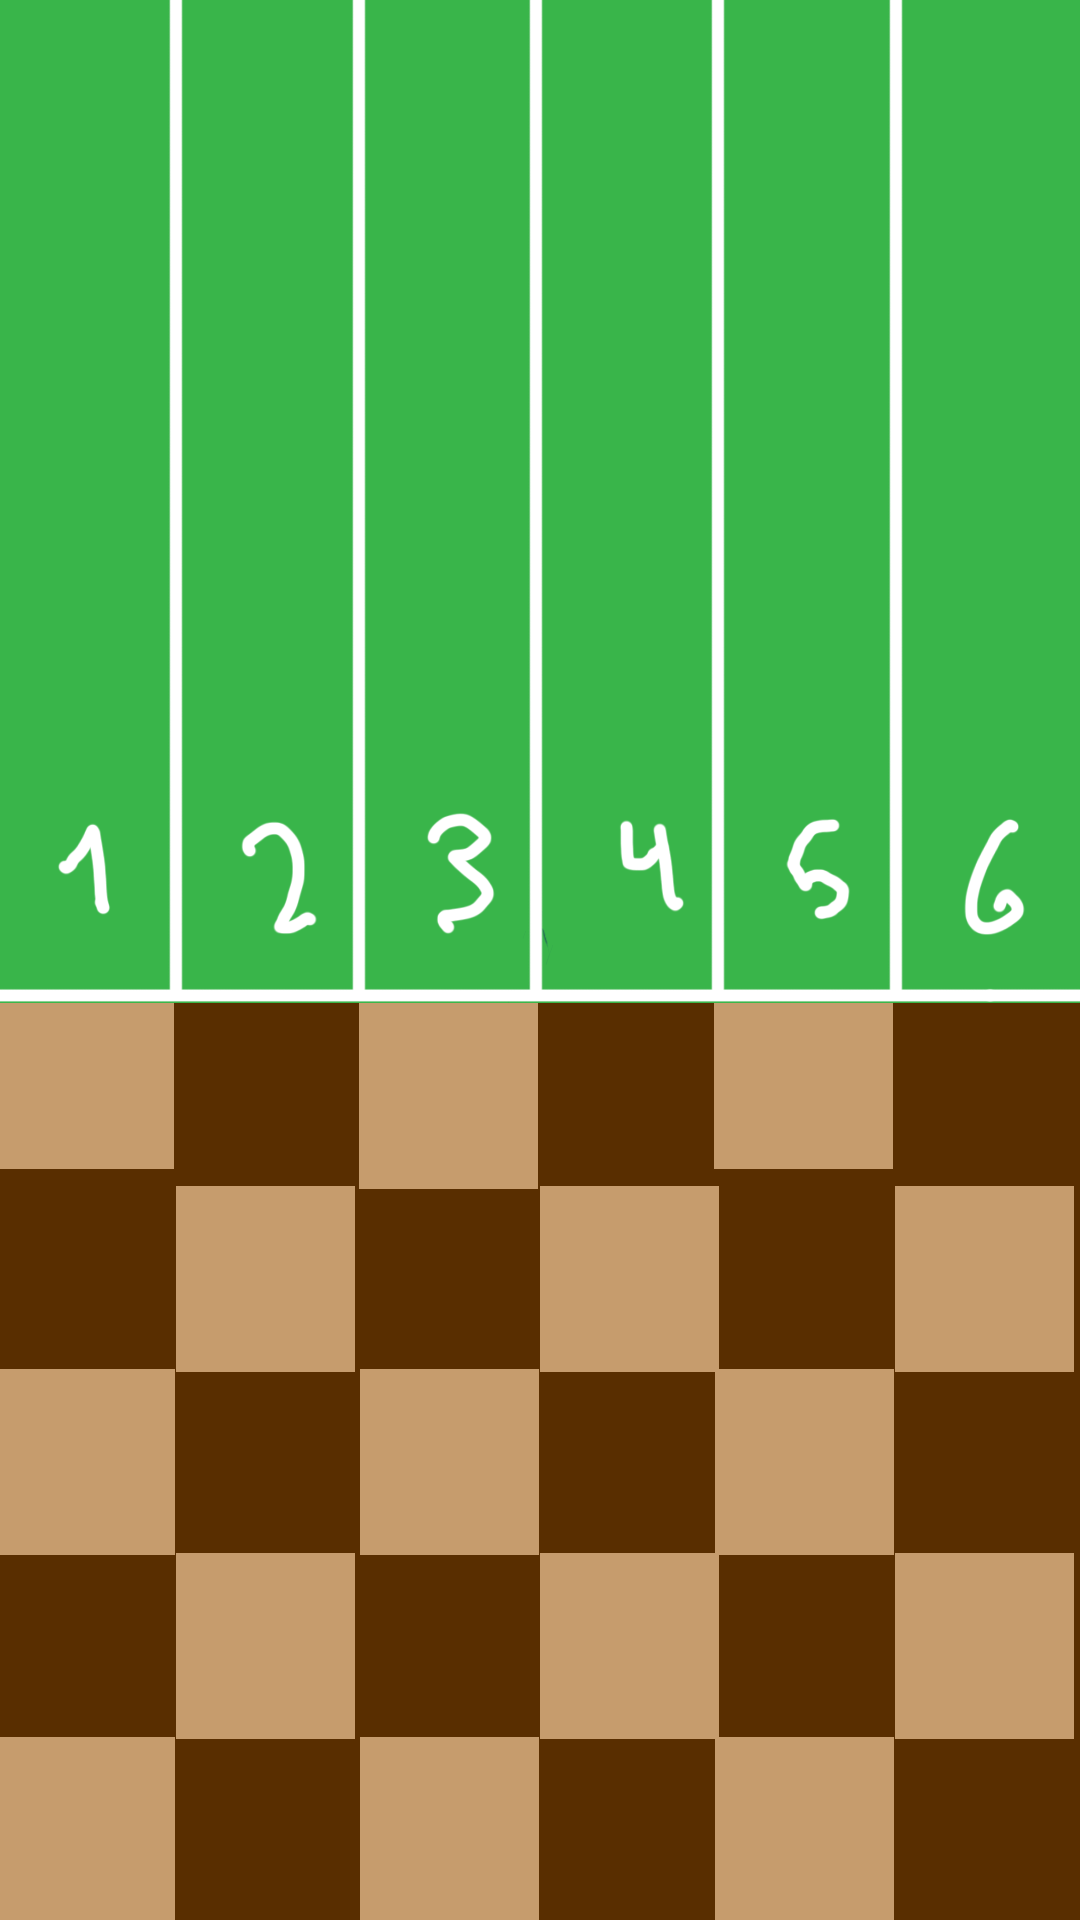
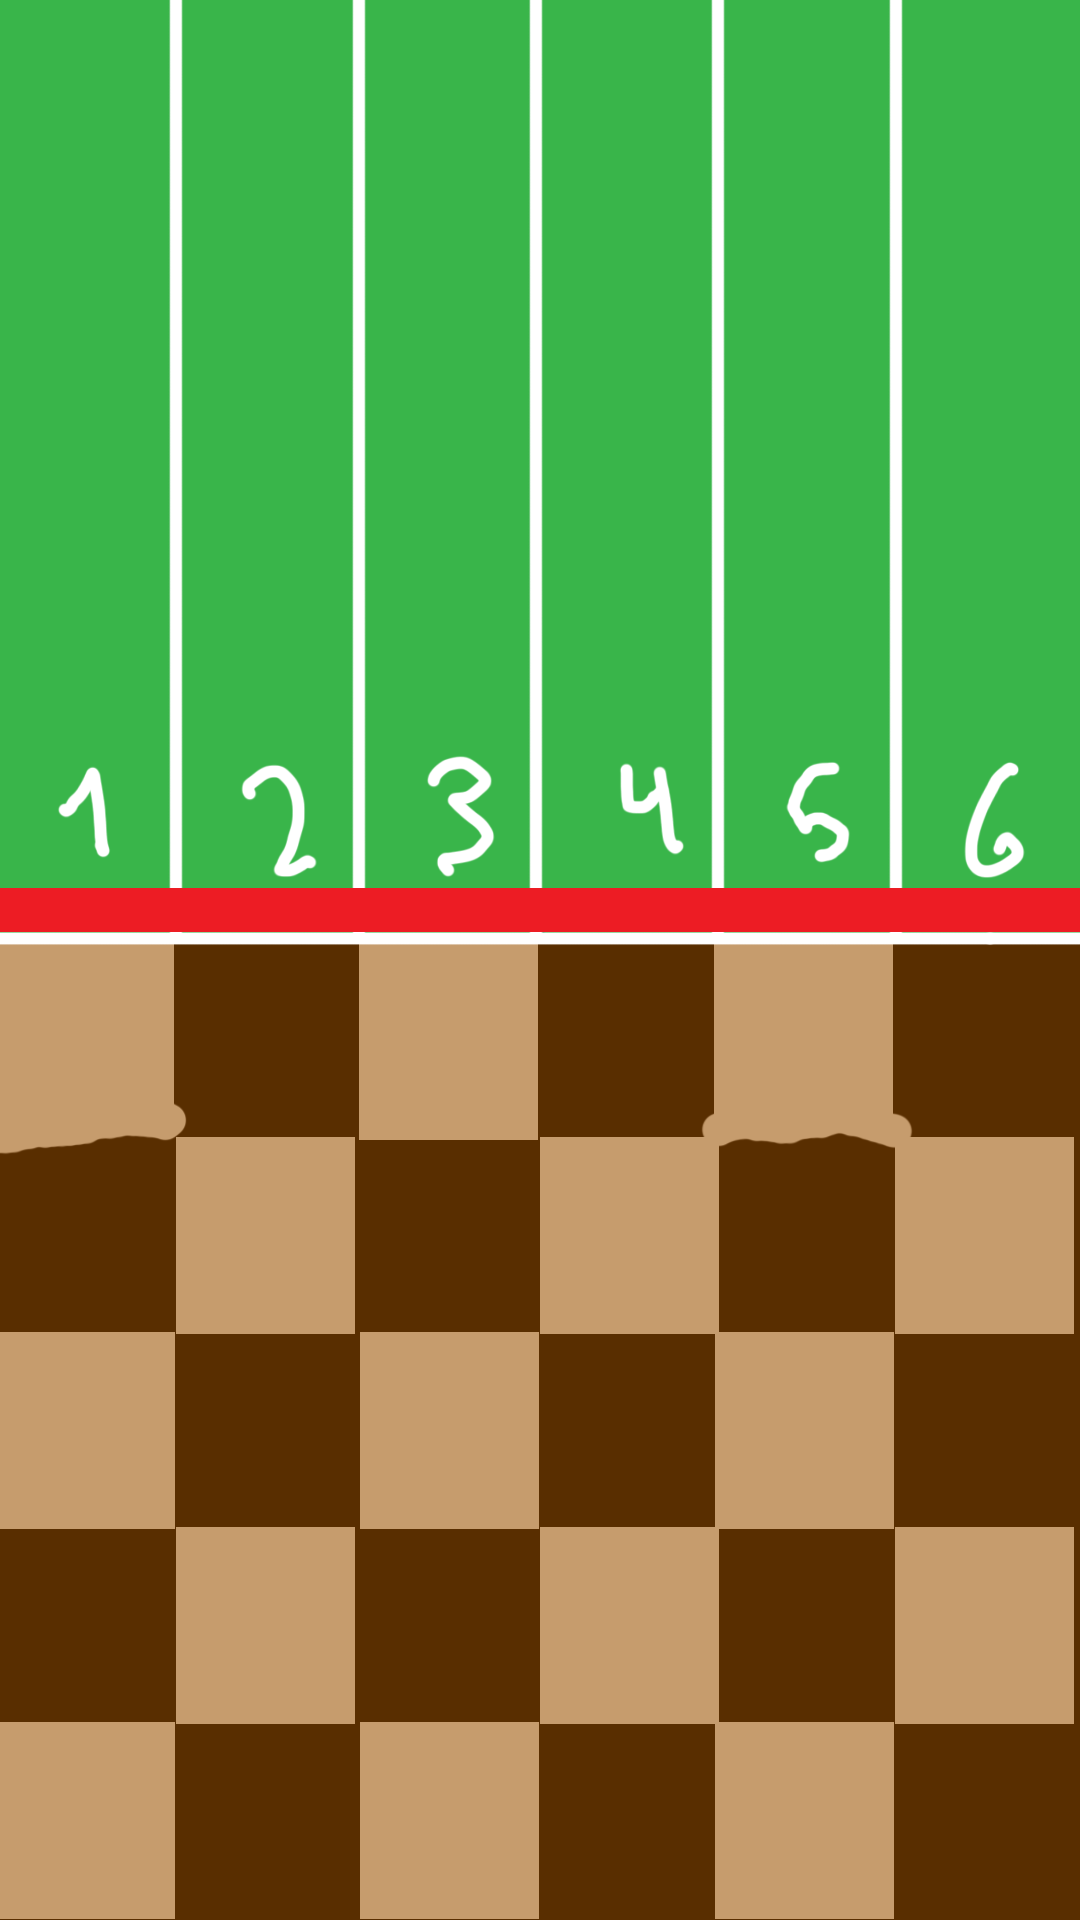
Combat works!

diff --git a/core/src/me/shreyasr/elemental/field/Entities/Monster.java b/core/src/me/shreyasr/elemental/field/Entities/Monster.java
@@ -35,28 +35,27 @@ public class Monster implements Entity {
     }
 
     public enum Type {
-        FIRE_3(MonsterSprite.FIRE_3, Element.FIRE),
-        FIRE_4(MonsterSprite.FIRE_4, Element.FIRE),
-        FIRE_5(MonsterSprite.FIRE_5, Element.FIRE),
+        FIRE_3(MonsterSprite.FIRE_3, Element.FIRE, 1, 100),
+        FIRE_4(MonsterSprite.FIRE_4, Element.FIRE, 2, 200),
+        FIRE_5(MonsterSprite.FIRE_5, Element.FIRE, 4, 400),
 
-        COLD_3(MonsterSprite.COLD_3, Element.COLD),
-        COLD_4(MonsterSprite.COLD_4, Element.COLD),
-        COLD_5(MonsterSprite.COLD_5, Element.COLD),
+        COLD_3(MonsterSprite.COLD_3, Element.COLD, 1, 100),
+        COLD_4(MonsterSprite.COLD_4, Element.COLD, 2, 200),
+        COLD_5(MonsterSprite.COLD_5, Element.COLD, 4, 400),
 
-        WATER_3(MonsterSprite.WATER_3, Element.WATER),
-        WATER_4(MonsterSprite.WATER_4, Element.WATER),
-        WATER_5(MonsterSprite.WATER_5, Element.WATER),
+        WATER_3(MonsterSprite.WATER_3, Element.WATER, 1, 100),
+        WATER_4(MonsterSprite.WATER_4, Element.WATER, 2, 200),
+        WATER_5(MonsterSprite.WATER_5, Element.WATER, 4, 400),
 
-        LIGHTNING_3(MonsterSprite.LIGHTNING_3, Element.LIGHTNING),
-        LIGHTNING_4(MonsterSprite.LIGHTNING_4, Element.LIGHTNING),
-        LIGHTNING_5(MonsterSprite.LIGHTNING_5, Element.LIGHTNING),
+        LIGHTNING_3(MonsterSprite.LIGHTNING_3, Element.LIGHTNING, 1, 100),
+        LIGHTNING_4(MonsterSprite.LIGHTNING_4, Element.LIGHTNING, 2, 200),
+        LIGHTNING_5(MonsterSprite.LIGHTNING_5, Element.LIGHTNING, 4, 400),
 
-        EARTH_3(MonsterSprite.EARTH_3, Element.EARTH),
-        EARTH_4(MonsterSprite.EARTH_4, Element.EARTH),
-        EARTH_5(MonsterSprite.EARTH_5, Element.EARTH);
+        EARTH_3(MonsterSprite.EARTH_3, Element.EARTH, 1, 10),
+        EARTH_4(MonsterSprite.EARTH_4, Element.EARTH, 2, 20),
+        EARTH_5(MonsterSprite.EARTH_5, Element.EARTH, 4, 40);
 
         public static Type get(Element e, int size) {
-            Gdx.app.error("size", size+"");
             switch(size) {
                 case 3:
                     switch(e) {
@@ -88,10 +87,14 @@ public class Monster implements Entity {
 
         public final MonsterSprite sprite;
         public final Element element;
+        public final double health;
+        public final double attack;
 
-        Type(MonsterSprite sprite, Element element) {
+        Type(MonsterSprite sprite, Element element, double attack, double health) {
             this.sprite = sprite;
             this.element = element;
+            this.attack = attack;
+            this.health = health;
         }
     }
 
@@ -101,13 +104,13 @@ public class Monster implements Entity {
     public Type type;
     public Orientation orientation;
 
-    public int xOff = (int) (Math.random()* Game.LANE_WIDTH);
+    public int xOff = (int) ((Math.random()-0.5)* Game.LANE_WIDTH)/4;
     public double y = -1;
     public long endTime = 0;
     public int lane;
     public final double speed;
-    public double health;
-    public double attackStrength;
+    public double health = 50;
+    public double attackStrength = 1;
     public ArrayList<Effect> effects = new ArrayList<Effect>();
 
     public Monster(Monster.Type type, Orientation orientation, double speed, int lane) {
@@ -116,6 +119,8 @@ public class Monster implements Entity {
         this.speed = speed;
         this.lane = lane;
         this.sprite = type.sprite;
+        health = type.health;
+        attackStrength = type.attack;
     }
 
     public enum Status { PASS, SEND, DIE }
@@ -129,17 +134,22 @@ public class Monster implements Entity {
                 e.remove();
             }
         }
-        double newY = y + speedMod()*Game.LANE_LENGTH*0.001*0.005;
+        double newY = y + speedMod()*Game.LANE_LENGTH*0.001*0.004;
         for(Monster m : monsters) {
-            if(m.y > y && m.y < newY) {
-                newY = m.y-0.01;
-                this.attack(m);
-                break;
-            }
-            else if(m.y < y && m.y > newY) {
-                newY = m.y + 0.01;
-                this.attack(m);
-                break;
+            if (m == this)
+                continue;
+            if (orientation == Orientation.GOOD) {
+                if (m.y - y < 0.1 && m.y - y > 0) {
+                    newY = y;
+                    if (m.orientation == Orientation.EVIL)
+                        this.attack(m);
+                }
+            } else {
+                if (m.y - y > -0.1 && m.y - y < 0) {
+                    newY = y;
+                    if (m.orientation == Orientation.GOOD)
+                        this.attack(m);
+                }
             }
         }
         if(newY<-1 && orientation == Orientation.EVIL) {
@@ -151,22 +161,19 @@ public class Monster implements Entity {
             endTime = TimeUtils.millis();
             return Status.SEND;
         }
+        if (health < 0)
+            return Status.DIE;
         return Status.PASS;
     }
     @Override
     public void takeDamage(Attack a){
+        Gdx.app.error("Damage", a.baseDamage + "");
         if(a.type.counter(type.element))
             health-=a.baseDamage * 2 * defMod();
         else
             health-=a.baseDamage;
-        if(health < 0)
-            die();
     }
 
-    @Override
-    public void die() {
-
-    }
     public double speedMod(){
         double base = speed;
         for(Effect e : effects)
@@ -186,10 +193,7 @@ public class Monster implements Entity {
         return base;
     }
     public void attack(Entity e){
-        e.takeDamage(new Attack(
-                type.element,
-                attackMod()
-        ));
+        e.takeDamage(new Attack(type.element, attackMod()));
     }
     public void addEffect(Effect e){
         effects.add(e);

diff --git a/core/src/me/shreyasr/elemental/field/Lane.java b/core/src/me/shreyasr/elemental/field/Lane.java
@@ -1,18 +1,17 @@
 package me.shreyasr.elemental.field;
 
-import com.badlogic.gdx.Gdx;
 import com.badlogic.gdx.graphics.g2d.SpriteBatch;
 
-import java.util.ArrayList;
 import java.util.Iterator;
 import java.util.List;
+import java.util.concurrent.CopyOnWriteArrayList;
 
 import me.shreyasr.elemental.Game;
 import me.shreyasr.elemental.field.entities.Monster;
 
 public class Lane {
 
-    public List<Monster> monsters = new ArrayList<Monster>();
+    public List<Monster> monsters = new CopyOnWriteArrayList<>();
     public final int laneNum;
 
     public Lane(int laneNum) {
@@ -40,7 +39,7 @@ public class Lane {
     public void render(SpriteBatch batch, int lanePos) {
         for (Monster m : monsters) {
             batch.draw(m.sprite.sprite,//m.sprite.animation.getKeyFrame(Game.DELTA),
-                    lanePos+m.xOff-Game.LANE_WIDTH, (float) ((m.y+1)*Game.LANE_LENGTH+Game.LANE_START));
+                    lanePos+m.xOff-Game.LANE_WIDTH/2, (float) ((m.y+1)*Game.LANE_LENGTH+Game.LANE_START));
         }
     }
 }

diff --git a/core/src/me/shreyasr/elemental/field/Field.java b/core/src/me/shreyasr/elemental/field/Field.java
@@ -5,13 +5,10 @@ import com.badlogic.gdx.graphics.glutils.ShapeRenderer;
 
 import me.shreyasr.elemental.Game;
 import me.shreyasr.elemental.field.entities.Monster;
-import me.shreyasr.elemental.field.entities.Player;
 
 public class Field {
 
     Lane[] lanes = new Lane[6];
-    public Player self;
-    public Player enemy;
     public Field() {
         for (int i=0;i<6;i++) {
             lanes[i] = new Lane(i);
@@ -30,7 +27,7 @@ public class Field {
     ShapeRenderer shapeRenderer = new ShapeRenderer();
     public void render(SpriteBatch batch) {
         for (int i=0;i<6;i++) {
-            lanes[i].render(batch, Game.LANE_WIDTH*i);
+            lanes[i].render(batch, Game.LANE_WIDTH * i);
         }
     }
 }

diff --git a/core/src/me/shreyasr/elemental/field/Entities/Attack.java b/core/src/me/shreyasr/elemental/field/Entities/Attack.java
@@ -2,12 +2,11 @@ package me.shreyasr.elemental.field.entities;
 
 import me.shreyasr.elemental.Element;
 
-/**
- * Created by Benjamin on 5/23/2015.
- */
 public class Attack {
+
     public Element type;
     public double baseDamage;
+
     public Attack(Element type, double baseDamage){
         this.type = type;
         this.baseDamage = baseDamage;

diff --git a/core/src/me/shreyasr/elemental/field/Entities/Entity.java b/core/src/me/shreyasr/elemental/field/Entities/Entity.java
@@ -1,9 +1,6 @@
 package me.shreyasr.elemental.field.entities;
 
-/**
- * Created by Benjamin on 5/23/2015.
- */
 public interface Entity {
-    public void takeDamage(Attack a);
-    public void die();
+
+    void takeDamage(Attack a);
 }

diff --git a/core/src/me/shreyasr/elemental/board/Board.java b/core/src/me/shreyasr/elemental/board/Board.java
@@ -107,7 +107,7 @@ public class Board {
                 reset();
                 dragCooldown = false;
             }
-        }, 1000);
+        }, 500);
     }
 
     public void reset() { // 0 0 , 0 1
